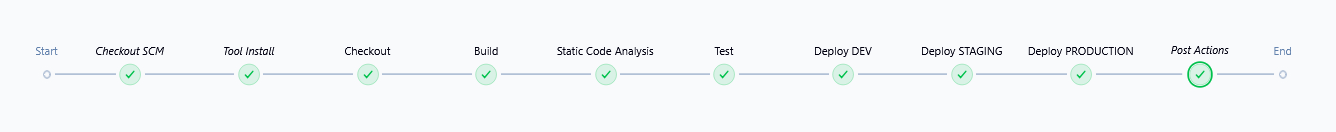
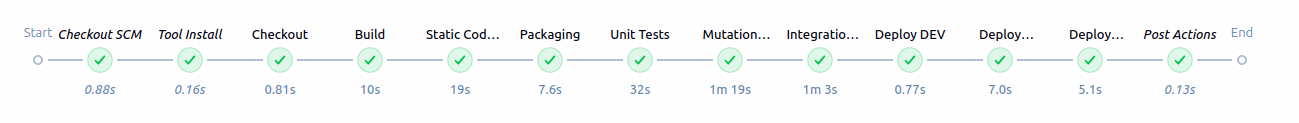
Add Report Pipeline Evidences

diff --git a/Deliverables/Report.md b/Deliverables/Report.md
@@ -133,11 +133,19 @@ Although the current thresholds are intentionally low to ensure pipeline stabili
  --- 
  
  ## Environment Architecture 
+
+For our system, we opted to create a Jenkins pipeline that handles deployments to different environments. 
+- In the development environment, the application is deployed locally by running the usual Maven commands. 
+- For staging, we deploy the application inside a Docker container. 
+- In production, we use two Docker containers: one running our Java application and another running the H2 database.
+
  | Environment | Deployment Type | Components | Port(s) | Database | Deployment Method |
  |----------------|-------------------------|---------------------------|------------|--------------------|-------------------------------------------| 
  | Development | Local (JAR via Maven) | Java App | 8081 | H2 (file mode) | Jenkins local exec |
  | Staging | Docker (single container)| Java App + H2 | 8082 | Embedded H2 | `docker-compose up psoft-staging` |
  | Production | Docker (multi-container)| Java App + DB | 8083, 8084 | Dedicated DB | `docker-compose up psoft-prod` | 
+
+
 
 ---
 
@@ -145,6 +153,53 @@ Although the current thresholds are intentionally low to ensure pipeline stabili
 
 <p align="center">
   <img src="Diagrams/DeploymentDiagram_SystemToBe.png" alt="Deployment Diagram">
+</p>
+
+To meet the project objectives, we decided to use two Jenkins instances: one running locally on a machine, and another running inside a container. 
+For the locally installed Jenkins, we had to install all required plugins manually via the command line.
+With the Jenkins container setup, however, we could predefine the plugins we wanted. 
+This approach ensures that when the Jenkins UI is first opened, all necessary plugins are already installed and configured, allowing our team to maintain a consistent setup across environments.
+
+An important configuration for both the local and containerized Jenkins instances is the environment variable:
+`-Dhudson.util.ProcessTree.disable=true"`
+
+This configuration allows Jenkins to run containers and commands within the workspace safely, ensuring that child processes do not remain running after the workspace finishes.
+
+To start using the containerized Jenkins, we ran the following command inside the psoft-project-2024-g1/jenkins folder:
+`docker-compose up -d`
+
+---
+
+#### Development Environment
+<p align="center">
+  <img src="Diagrams/DevelopmentEnvApp.png" alt="Development">
+</p>
+
+---
+
+#### Staging Environment
+<p align="center">
+  <img src="Diagrams/StagingEnvApp.png" alt="Staging">
+</p>
+
+---
+
+#### Production Environment
+
+<p align="center">
+  <img src="Diagrams/ProductionApp.png" alt="ProductionServer">
+</p>
+(Application)
+
+<p align="center">
+  <img src="Diagrams/ProductionDatabase.png" alt="ProductionDatabase">
+</p>
+(Database)
+
+#### Containers Evidence
+
+<p align="center">
+  <img src="Diagrams/ContainersRunning.png" alt="Containers">
 </p>
 
 ---
@@ -164,14 +219,44 @@ Finally, deployment stages were added, enabling automated delivery of the applic
 This enhancement allowed for faster validation of new builds in realistic environments, supporting incremental testing, pre-production validation, and smoother production rollouts.
 Although these improvements naturally increased the overall execution time of the pipeline, they provided a much higher level of confidence in both the code quality and the deployment reliability.
 
+##### Initial Pipeline:
 ![InitialPipeline.png](Diagrams/InitialPipeline.png)
-<p align="center">
-  <img src="Diagrams/StagesTimeEvidences.png" alt="Time per stages">
-</p>
 
 <p align="center">
   <img src="Diagrams/BuildTimeTrendGraph.png" alt="Build Time Graph">
 </p>
+(Graph took from Jenkins Pipeline in localhost)
+
+---
+
+##### Pipeline (26/10/2025):
+<p align="center">
+  <img src="Diagrams/StagesTimeEvidences.png" alt="Time per stages">
+</p>
+
+---
+
+##### Pipeline Final
+<p align="center">
+  <img src="Diagrams/FinalStagePipeline.png" alt="FinalStagePipeline">
+</p>
+
+<p align="center">
+  <img src="Diagrams/BuildTimeGraphContainerJenkins.png" alt="Build Time Graph Final">
+</p>
+
+(Graph took from Jenkins Pipeline in container)
+
+---
+
+One important remark, previously, our mutation tests took an average of **about 9 minutes and 16 seconds**. 
+By restricting the tests to the domain layer, the execution time dropped to just **1 minute and 19 seconds**, representing an approximately **86% reduction**. 
+This dramatically improved the speed and efficiency of our CI/CD pipeline.
+
+<p align="center">
+  <img src="Diagrams/PipelineMutationTestTime.png" alt="TimeSaved">
+</p>
+
 
 
 ---

diff --git a/README.md b/README.md
@@ -1,1 +1,17 @@
-# odsoft_ffs_1140422_1201087
+# ODSOF
+
+## Table of Contents
+- [Context](#context)
+- [Report Project1](#report)
+
+
+## Context
+This project is being developed as part of the ODSOFT (_Organização do Desenvolvimento de Software_) course at ISEP (_Instituto Superior de Engenharia do Porto_).  
+The application is a backend API for managing a library and was given by the teachers.
+The project is being developed by the following students:
++ Nuno Alves [1140422]
++ Tiago Bento [1201087]
+
+## Report
+Link to Report Project 1: [Report Project1](/Deliverables/Report.md) 
+Link to System as Is Report: [System as Is](/Deliverables/System%20As%20Is.md) 

diff --git a/Deliverables/System As Is.md b/Deliverables/System As Is.md
@@ -4,7 +4,7 @@
 
 The system is structured into the following **layers/packages**:
 
-![System-As-Is Implementation View.png](System-As-Is%20Implementation%20View.png)
+![System-As-Is Implementation View.png](Diagrams/System-As-Is%20Implementation%20View.png)
 
 ### Infrastructure
 - **Routes**: Defines HTTP endpoints or API routes that map external requests to controllers.
@@ -33,7 +33,7 @@ The system is structured into the following **layers/packages**:
 
 ## Deployment View (C4 Level 4)
 
-![System-As-Is Deployment View.png](System-As-Is%20Deployment%20View.png)
+![System-As-Is Deployment View.png](Diagrams/System-As-Is%20Deployment%20View.png)
  
 ---
 
